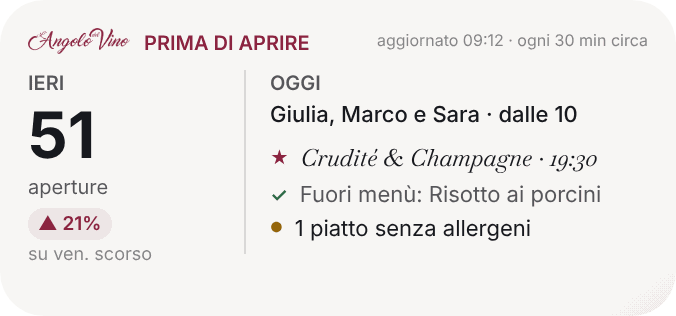
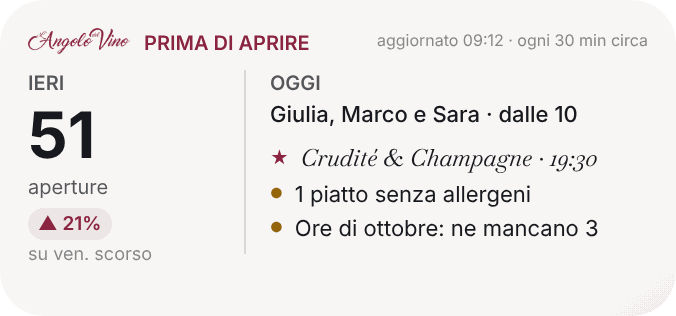
Versione 0.34.0: widget «Menù e QR», QR centrato nel Pannello, «Da fare» con orari e ore dei dipendenti
- Nuovo widget medio «Menù e QR» (per tutti): a sinistra si tocca e si apre il menù,
  a destra il QR si tocca e si apre grande.
- Pannello: «Menù» con testo e tondo con la freccia allineati; «QR del menù» con la
  scritta su una riga e il codice grande al centro.
- «Da fare»: dal giovedì gli orari della settimana prossima da preparare; dal primo del
  mese i dipendenti che devono mandare le ore; le ore da approvare. Il numero conta le
  cose da fare. «Prima di aprire» le mostra prima del fuori menù, con testi corti.
- Corretto il nome doppio di una funzione che rompeva il widget medio «Aperture».

Claude-Session: https://claude.ai/code/session_01EJxiVCETf75PpRm3fVmtdi

Changed region(s): [[0.4349, 0.6835, 0.9009, 0.769], [0.4038, 0.5696, 0.9009, 0.6551]]

diff --git a/src/lib/widget-data.ts b/src/lib/widget-data.ts
@@ -8,7 +8,7 @@ import { businessDayKey, formatPrice, inPeriod, periodStatus } from "@/lib/menu-
 import { openStatus, romeNow } from "@/lib/menu-venue";
 import { blockHours, periodOf } from "@/lib/schedule";
 import { employeeVisibleDates } from "@/lib/week-visibility";
-import { parseDateKey } from "@/lib/week";
+import { endOfMonth, lastCompletedMonth, parseDateKey } from "@/lib/week";
 import { MENU_QR_URL } from "@/lib/widgets";
 
 const DAYS = ["Lunedì", "Martedì", "Mercoledì", "Giovedì", "Venerdì", "Sabato", "Domenica"];
@@ -238,23 +238,40 @@ async function allergensToDo(day: string) {
 }
 
 // ---------- Da fare
+// Le cose in sospeso, ognuna quando serve davvero:
+// - piatti senza allergeni (sempre);
+// - dal giovedì, gli orari della settimana prossima ancora da scrivere; scritti ma non confermati, da confermare;
+// - dal primo del mese, i dipendenti che non hanno ancora mandato le ore del mese finito;
+// - le ore mandate che aspettano l'approvazione.
 export async function dataDaFare() {
   const day = businessDayKey(new Date());
   const today = romeParts().day;
   const nextMon = addDays(monday(today), 7);
-  const [allergeni, esauriti, nextBlocks, nextPlan, mesi] = await Promise.all([
+  const mese = lastCompletedMonth(parseDateKey(today));
+  const fineMese = endOfMonth(new Date(Date.UTC(mese.year, mese.month - 1, 1)));
+  const [allergeni, esauriti, nextBlocks, nextPlan, inAttesa, dipendenti, inviati] = await Promise.all([
     allergensToDo(day),
     prisma.menuItem.count({ where: { deletedAt: null, soldOutDay: day } }),
     prisma.shiftBlock.count({ where: { date: { gte: parseDateKey(nextMon), lte: parseDateKey(addDays(nextMon, 6)) } } }),
     prisma.weekPlan.findUnique({ where: { weekStart: parseDateKey(nextMon) }, select: { publishedAt: true } }),
-    prisma.monthlySubmission.count({ where: { status: "SUBMITTED" } }),
+    prisma.monthlySubmission.findMany({ where: { status: "SUBMITTED" }, select: { employeeId: true } }),
+    // Come l'avviso in «Dipendenti»: chi ha l'accesso, è attivo ed era già assunto in quel mese.
+    prisma.employee.findMany({ where: { role: "EMPLOYEE", active: true, username: { not: null }, createdAt: { lte: fineMese } }, select: { id: true } }),
+    prisma.monthlySubmission.findMany({ where: { year: mese.year, month: mese.month, status: { in: ["SUBMITTED", "APPROVED"] } }, select: { employeeId: true } }),
   ]);
+  const daPreparare = weekday(today) >= 3 && nextBlocks === 0 ? 1 : 0;
   const daConfermare = nextBlocks > 0 && !nextPlan?.publishedAt ? 1 : 0;
+  const mandate = new Set(inviati.map((x) => x.employeeId));
+  const oreMancanti = dipendenti.filter((e) => !mandate.has(e.id)).length;
+  const daApprovare = new Set(inAttesa.map((x) => x.employeeId)).size;
+  const nomeMese = MONTHS[mese.month - 1];
   const righe = [
-    { n: allergeni, testo: allergeni === 1 ? "allergeni da compilare" : "allergeni da compilare", breve: "allergeni", livello: allergeni > 0 ? "rosso" : "verde", link: "/gestione-menu" },
+    { n: allergeni, testo: "allergeni da compilare", breve: "allergeni", livello: allergeni > 0 ? "rosso" : "verde", link: "/gestione-menu" },
+    { n: daPreparare, testo: "orari della settimana prossima da fare", breve: "da preparare", livello: daPreparare > 0 ? "ambra" : "verde", link: `/orari?date=${nextMon}` },
     { n: daConfermare, testo: "settimana da confermare", breve: "da confermare", livello: daConfermare > 0 ? "ambra" : "verde", link: `/orari?date=${nextMon}` },
+    { n: daApprovare, testo: "ore da approvare", breve: "da approvare", livello: daApprovare > 0 ? "ambra" : "verde", link: "/dipendenti" },
+    { n: oreMancanti, testo: `ore di ${nomeMese} da mandare`, breve: "ore da mandare", livello: oreMancanti > 0 ? "ambra" : "verde", link: "/dipendenti", mese: nomeMese },
     { n: esauriti, testo: esauriti === 1 ? "esaurito oggi" : "esauriti oggi", breve: "esauriti", livello: esauriti > 0 ? "ambra" : "verde", link: "/gestione-menu" },
-    { n: mesi, testo: mesi === 1 ? "mese da approvare" : "mesi da approvare", breve: "da approvare", livello: mesi > 0 ? "ambra" : "verde", link: "/dipendenti" },
   ];
   return { aggiornato: clockNow(), tuttoAPosto: righe.every((r) => r.n === 0), righe, link: "/gestione-menu" };
 }
@@ -495,27 +512,24 @@ export async function dataMattina() {
   const { day: today } = romeParts();
   const yesterday = addDays(today, -1);
   const business = businessDayKey(new Date());
-  const nextMon = addDays(monday(today), 7);
-  const [per, hours, pick, daily, allergeni, staff, ev, nextBlocks, nextPlan] = await Promise.all([
+    const [per, hours, pick, daily, staff, ev, todo] = await Promise.all([
     opensPerDay(addDays(today, -8)),
     prisma.menuEvent.groupBy({ by: ["hour"], where: { kind: "open", day: yesterday }, _count: { _all: true } }),
     prisma.menuEvent.groupBy({ by: ["label"], where: { kind: "pick", label: { not: null }, day: yesterday }, _count: { _all: true }, orderBy: { _count: { label: "desc" } }, take: 1 }),
     dailyLines(business),
-    allergensToDo(business),
     staffNow(),
     nextEvent(business),
-    prisma.shiftBlock.count({ where: { date: { gte: parseDateKey(nextMon), lte: parseDateKey(addDays(nextMon, 6)) } } }),
-    prisma.weekPlan.findUnique({ where: { weekStart: parseDateKey(nextMon) }, select: { publishedAt: true } }),
+    dataDaFare(),
   ]);
   const count = (d: string) => per.get(d) ?? 0;
   const peak = hours.reduce<{ hour: number; n: number } | null>((best, h) => (!best || h._count._all > best.n ? { hour: h.hour, n: h._count._all } : best), null);
   const fuori = daily.piatti.length + daily.vini.length;
   const persone = [...staff.adesso, ...staff.dopo];
   const cose = [
-    // Il fuori menù è facoltativo: se c'è lo si ricorda, se manca non è una cosa da fare.
+    // Prima le cose in sospeso del «Da fare» (allergeni, orari, ore dei dipendenti), che contano di più.
+    ...todo.righe.filter((r) => r.n > 0 && r.breve !== "esauriti").map((r) => ({ testo: todoShort(r), fatto: false, link: r.link })),
+    // Il fuori menù è facoltativo: se c'è lo si ricorda (spuntato), se manca non è una cosa da fare.
     fuori > 0 ? { testo: `Fuori menù: ${[...daily.piatti, ...daily.vini].map((x) => x.nome).slice(0, 2).join(", ")}`, fatto: true, link: "/gestione-menu" } : null,
-    allergeni > 0 ? { testo: `${allergeni} ${allergeni === 1 ? "piatto" : "piatti"} senza allergeni`, fatto: false, link: "/gestione-menu" } : null,
-    nextBlocks > 0 && !nextPlan?.publishedAt ? { testo: "Settimana prossima da confermare", fatto: false, link: `/orari?date=${nextMon}` } : null,
   ].filter(Boolean);
   return {
     aggiornato: clockNow(),
@@ -713,12 +727,23 @@ export async function dataClienti() {
   };
 }
 
-// La prima cosa da fare, detta per intero sotto il numero.
-const TODO_TEXT: Record<string, (n: number) => string> = {
+// Le cose da fare dette per intero (Pannello, sotto il numero; «Prima di aprire», nell'elenco).
+const TODO_TEXT: Record<string, (n: number, mese?: string) => string> = {
   allergeni: (n) => `${n} ${n === 1 ? "piatto" : "piatti"} senza allergeni`,
-  "da confermare": () => "orari da confermare",
-  "da approvare": (n) => `${n} ${n === 1 ? "mese" : "mesi"} da approvare`,
+  "da preparare": () => "Orari della settimana prossima da preparare",
+  "da confermare": () => "Orari della settimana prossima da confermare",
+  "da approvare": (n) => `${n} ${n === 1 ? "dipendente" : "dipendenti"}: ore da approvare`,
+  "ore da mandare": (n, mese) => `${n} ${n === 1 ? "dipendente deve" : "dipendenti devono"} mandarti le ore di ${mese ?? "questo mese"}`,
 };
+const todoText = (r: { n: number; breve: string; mese?: string }) => TODO_TEXT[r.breve]?.(r.n, r.mese) ?? `${r.n} ${r.breve}`;
+// Più corte, per l'elenco di «Prima di aprire» (una riga sola accanto al pallino).
+const TODO_SHORT: Record<string, (n: number, mese?: string) => string> = {
+  "da preparare": () => "Orari settimana prossima da fare",
+  "da confermare": () => "Orari settimana prossima da confermare",
+  "da approvare": (n) => `Ore da approvare: ${n}`,
+  "ore da mandare": (n, mese) => `Ore di ${mese ?? "questo mese"}: ne mancano ${n}`,
+};
+const todoShort = (r: { n: number; breve: string; mese?: string }) => TODO_SHORT[r.breve]?.(r.n, r.mese) ?? todoText(r);
 
 // ---------- Pannello: sei scorciatoie, ognuna con il suo dato
 export async function dataPannello(owner: { kind: "admin" } | { kind: "employee"; employeeId: string }) {
@@ -753,8 +778,9 @@ export async function dataPannello(owner: { kind: "admin" } | { kind: "employee"
       orario: staff.stasera.length ? `${staff.stasera[0].dalle}–${[...staff.stasera].sort((a, b) => b.fine - a.fine)[0].alle}` : null,
     },
     fuori: [...daily.piatti, ...daily.vini].map((x) => x.nome).slice(0, 2),
-    daFare: daFare.reduce((s, r) => s + r.n, 0),
-    daFarePrimo: daFare[0] ? { testo: TODO_TEXT[daFare[0].breve]?.(daFare[0].n) ?? `${daFare[0].n} ${daFare[0].breve}`, link: daFare[0].link } : null,
+    // Quante cose ci sono da fare (non la somma: piatti e dipendenti non si sommano); sotto, la prima.
+    daFare: daFare.length,
+    daFarePrimo: daFare[0] ? { testo: todoText(daFare[0]), link: daFare[0].link } : null,
     link: "/menu",
     linkStatistiche: `/statistiche?dal=${today}&al=${today}`,
     linkTurni: `/orari?date=${today}`,

diff --git a/public/widget/angolo.js b/public/widget/angolo.js
@@ -406,6 +406,7 @@ const FORMATI = {
   turni: ["small", "medium", "accessoryRectangular", "accessoryCircular", "accessoryInline"],
   pannello: ["large"],
   apri: ["small"],
+  menuqr: ["medium"],
   sala: ["medium"],
   mattina: ["medium"],
   stasera: ["medium"],
@@ -437,6 +438,7 @@ function disegna(nome, fam, risposta) {
     : nome === "qr" ? wQr(fam, d)
     : nome === "pannello" ? wPannello(fam, d, v)
     : nome === "apri" ? wApri(fam, d)
+    : nome === "menuqr" ? wMenuQr(fam, d)
     : nome === "sala" ? wSala(fam, d, v)
     : nome === "mattina" ? wMattina(fam, d, v)
     : nome === "stasera" ? wStasera(fam, d, v)
@@ -823,6 +825,8 @@ function wDaFare(fam, d, v) {
     return w;
   }
   const colori = { rosso: C.rosso, ambra: C.ambra, verde: C.verde };
+  // Ci stanno quattro voci: prima quelle con qualcosa da fare.
+  const lista = [...d.righe.filter((x) => x.n > 0), ...d.righe.filter((x) => !x.n)].slice(0, 4);
   const voce = (stack, x, larghezza) => {
     const r = riga(stack);
     if (larghezza) r.size = new Size(larghezza, 0);
@@ -838,18 +842,18 @@ function wDaFare(fam, d, v) {
     r.addSpacer();
   };
   if (fam === "small") {
-    d.righe.forEach((x, i) => {
+    lista.forEach((x, i) => {
       voce(w, x);
-      if (i < d.righe.length - 1) w.addSpacer();
+      if (i < lista.length - 1) w.addSpacer();
     });
     return w;
   }
   const lw = Math.floor((CW - 12) / 2);
   for (let i = 0; i < 4; i += 2) {
     const r = riga(w);
-    voce(r, d.righe[i], lw);
+    voce(r, lista[i], lw);
     r.addSpacer(12);
-    voce(r, d.righe[i + 1], lw);
+    voce(r, lista[i + 1], lw);
     if (i === 0) w.addSpacer();
   }
   w.addSpacer();
@@ -1191,6 +1195,54 @@ function graficoGiornata(oggi, ieri, w, h) {
   return grafico(oggi, w, h, { confronto: ieri, punti: ieri.length, spessore: 2, punto: 3 });
 }
 
+// ---------- Menù e QR (medio): a sinistra si tocca e si apre il menù, a destra il QR si tocca
+// e si apre grande, da far inquadrare al cliente. Per chi è in sala.
+function wMenuQr(fam) {
+  const w = nuovoWidget(fam);
+  const { CW, CH } = misure(fam);
+  w.url = link("/menu");
+  const gap = 8;
+  const tw = Math.floor((CW - gap) / 2);
+  const r = riga(w);
+  r.topAlignContent();
+  // Sinistra: il menù
+  const sx = tessera(r, tw, CH, "/menu");
+  if (LOGO) logo(riga(sx), 14);
+  else testo(sx, "L'ANGOLO DEL VINO", F.titoletto(), C.oro);
+  sx.addSpacer();
+  testo(sx, "Il menù", F.serifForte(24), C.crema);
+  testo(sx, "tocca e mostralo", F.serifCorsivo(12), C.crema2);
+  sx.addSpacer(8);
+  const pr = riga(sx);
+  const pill = pr.addStack();
+  pill.setPadding(5, 12, 5, 12);
+  pill.cornerRadius = 12;
+  pill.backgroundColor = C.oro;
+  testo(pill, "Apri  →", F.forte(12), C.fondo1);
+  pr.addSpacer();
+  r.addSpacer(gap);
+  // Destra: il QR, grande quanto il riquadro permette
+  const dx = tessera(r, tw, CH, "/menu/qr");
+  const lato = Math.min(CH - 20 - 16, tw - 24);
+  dx.addSpacer();
+  const qr = riga(dx);
+  qr.addSpacer();
+  const box = qr.addStack();
+  box.backgroundColor = C.qr;
+  box.cornerRadius = 10;
+  box.setPadding(4, 4, 4, 4);
+  const img = box.addImage(QR);
+  img.imageSize = new Size(lato - 8, lato - 8);
+  qr.addSpacer();
+  dx.addSpacer(4);
+  const t = riga(dx);
+  t.addSpacer();
+  testo(t, "tocca: si apre grande", F.testo(9), C.crema2).minimumScaleFactor = 0.8;
+  t.addSpacer();
+  dx.addSpacer();
+  return w;
+}
+
 // ---------- Apri il menù (piccolo): un tocco e il menù è sullo schermo
 function wApri(fam, d) {
   const w = nuovoWidget(fam);
@@ -1228,32 +1280,58 @@ function wPannello(fam, d, v) {
   };
   const dipendente = d.ruolo === "dipendente";
 
-  // 1 · Menù (per tutti): da mostrare al cliente
+  // 1 · Menù: titolo in alto; in basso il testo a sinistra e il tondo con la freccia a destra.
+  const lato = Math.max(36, Math.min(48, th - 42));
+  const coppia = (tile, titolo, grande, piccolo) => {
+    testo(tile, titolo, F.titoletto(), C.oro);
+    tile.addSpacer();
+    const r = riga(tile);
+    r.centerAlignContent();
+    const c = colonna(r);
+    testo(c, grande, F.serifForte(18), C.crema).minimumScaleFactor = 0.8;
+    testo(c, piccolo, F.serifCorsivo(12), C.crema2);
+    r.addSpacer(6);
+    r.addSpacer();
+    return r;
+  };
   const r1 = fila();
   const menu = tessera(r1, tw, th, "/menu");
-  testo(menu, "MENÙ", F.titoletto(), C.oro);
-  menu.addSpacer();
-  testo(menu, "Apri il menù", F.serifForte(17), C.crema);
-  menu.addSpacer(2);
-  freccina(menu, "da mostrare  →");
+  const mr = coppia(menu, "MENÙ", "Il menù", "da mostrare");
+  // Il tondo un po' più piccolo del QR: pieno di colore, a parità di misura sembrerebbe più grosso.
+  const dTondo = lato - 8;
+  // Dentro uno spazio grande quanto il QR: così le due righe (menù e QR) restano alla stessa altezza.
+  const posto = mr.addStack();
+  posto.size = new Size(lato, lato);
+  posto.centerAlignContent();
+  posto.addSpacer();
+  const tondo = posto.addStack();
+  tondo.size = new Size(dTondo, dTondo);
+  tondo.cornerRadius = dTondo / 2;
+  tondo.backgroundColor = C.oro;
+  tondo.centerAlignContent();
+  tondo.addSpacer();
+  testo(tondo, "→", F.forte(Math.round(dTondo * 0.42)), C.fondo1);
+  tondo.addSpacer();
+  posto.addSpacer();
   r1.addSpacer(gap);
-  // 2 · QR da mostrare
+  // QR: una riga sola in alto, centrata, e sotto il codice più grande possibile, al centro.
   const qr = tessera(r1, tw, th, "/menu/qr");
+  const qt = riga(qr);
+  qt.addSpacer();
+  testo(qt, "QR DEL MENÙ", F.titoletto(), C.oro);
+  qt.addSpacer();
+  qr.addSpacer();
   const qrr = riga(qr);
-  qrr.centerAlignContent();
-  const qc = colonna(qrr);
-  testo(qc, "QR", F.titoletto(), C.oro);
-  qc.addSpacer();
-  testo(qc, "Mostra", F.serifForte(17), C.crema);
-  testo(qc, "il codice", F.serifCorsivo(12), C.crema2);
   qrr.addSpacer();
+  const latoQr = th - 20 - 14;
   const box = qrr.addStack();
   box.backgroundColor = C.qr;
   box.cornerRadius = 8;
   box.setPadding(4, 4, 4, 4);
-  const lato = Math.min(th - 28, 58);
   const img = box.addImage(QR);
-  img.imageSize = new Size(lato, lato);
+  img.imageSize = new Size(latoQr - 8, latoQr - 8);
+  qrr.addSpacer();
+  qr.addSpacer();
   w.addSpacer(gap);
 
   const r2 = fila();
@@ -1363,8 +1441,10 @@ function wPannello(fam, d, v) {
     testo(df, "DA FARE", F.titoletto(), C.oro);
     df.addSpacer();
     if (d.daFare) {
-      testo(df, d.daFare, F.numero(30), C.ambra);
-      testo(df, d.daFarePrimo.testo, F.testo(10), C.crema2);
+      // Le cose lunghe («3 dipendenti devono mandarti le ore di ottobre») vanno su due righe: numero più piccolo.
+      const lungo = d.daFarePrimo.testo.length > 24;
+      testo(df, d.daFare, F.numero(lungo ? 24 : 30), C.ambra);
+      testo(df, d.daFarePrimo.testo, F.testo(lungo ? 9.5 : 10), C.crema2, lungo ? 2 : 1);
     } else {
       testo(df, "Tutto a posto", F.serifForte(17), C.verde);
       testo(df, "niente in sospeso", F.testo(10), C.crema2);
@@ -1471,7 +1551,7 @@ function wMattina(fam, d, v) {
     r.url = link(c.link);
     testo(r, c.fatto ? "✓" : "●", F.forte(c.fatto ? 10 : 7), c.fatto ? C.verde : C.ambra);
     r.addSpacer(6);
-    testo(r, c.testo, F.testo(11), c.fatto ? C.crema2 : C.crema);
+    testo(r, c.testo, F.testo(11), c.fatto ? C.crema2 : C.crema).minimumScaleFactor = 0.8;
     r.addSpacer();
     dx.addSpacer(4);
   }
@@ -1599,7 +1679,7 @@ function wAndamento(fam, d, v) {
       centro(x.n, F.forte(9), x.inCorso ? C.crema : C.crema2);
       c.addSpacer(2);
       const h = Math.max(3, Math.round((x.n / max) * hMax));
-      const img = c.addImage(barra(bw, h, x.inCorso ? C.oro : C.oroArea));
+      const img = c.addImage(barraSettimana(bw, h, x.inCorso ? C.oro : C.oroArea));
       img.imageSize = new Size(bw, h);
       c.addSpacer(3);
       centro(x.inCorso ? "questa" : x.da, F.testo(8), x.inCorso ? C.oro : C.crema3);
@@ -1680,7 +1760,7 @@ function wAndamento(fam, d, v) {
 }
 
 // Una barra sola, con gli angoli in alto arrotondati.
-function barra(w, h, colore) {
+function barraSettimana(w, h, colore) {
   const ctx = new DrawContext();
   ctx.size = new Size(w, h);
   ctx.opaque = false;
@@ -1744,7 +1824,7 @@ let famiglia = config.widgetFamily;
 if (!config.runsInWidget) famiglia = await scegliAnteprima();
 
 // QR scuro su chiaro, sempre: è quello che le fotocamere leggono meglio.
-const QR = param === "qr" || param === "pannello" ? await caricaImmagine("qr.png") : null;
+const QR = param === "qr" || param === "pannello" || param === "menuqr" ? await caricaImmagine("qr.png") : null;
 const risposta = await caricaDati(param);
 // La locandina dell'evento (widget «stasera»): se non arriva, al suo posto la data.
 let LOCANDINA = null;

diff --git a/src/lib/widgets.ts b/src/lib/widgets.ts
@@ -30,6 +30,7 @@ export const WIDGETS: WidgetDef[] = [
   { id: "clienti", nome: "Da dire ai clienti", descrizione: "Per chi è in sala: il fuori menù con i prezzi, i consigli della casa, gli esauriti e l'evento di stasera.", per: "tutti", sizes: ["medium"], icona: { colore: "deep-green", disegno: "comments" } },
   { id: "andamento", nome: "Andamento", descrizione: "Per il consulente: la settimana e il mese in corso contro gli stessi giorni di prima, settimana per settimana, i mesi interi, quanto rendono gli eventi, il momento più forte, le ore in turno.", per: "admin", sizes: ["large"], icona: { colore: "deep-blue", disegno: "chart-bar" } },
   { id: "apri", nome: "Apri il menù", descrizione: "Un tocco e il menù dei clienti è sullo schermo, da mostrare.", per: "tutti", sizes: ["small"], icona: { colore: "deep-brown", disegno: "wine-glass" } },
+  { id: "menuqr", nome: "Menù e QR", descrizione: "Per chi è in sala: a sinistra si tocca e si apre il menù, a destra il QR si tocca e si apre grande, da far inquadrare al cliente.", per: "tutti", sizes: ["medium"], icona: { colore: "deep-brown", disegno: "qrcode" } },
   { id: "qr", nome: "QR del menù", descrizione: "Il codice dei tavoli, grande, da far inquadrare a chi non lo trova.", per: "tutti", sizes: ["small", "large"], icona: { colore: "deep-gray", disegno: "qrcode" } },
   { id: "aperture", nome: "Aperture di oggi", descrizione: "Quante volte è stato aperto il menù oggi, anche sulla schermata di blocco, sotto l'orologio.", per: "admin", sizes: ["small", "accessoryRectangular", "accessoryCircular", "accessoryInline"], icona: { colore: "deep-red", disegno: "eye" } },
   { id: "turni", nome: "I miei turni", descrizione: "Il prossimo turno e la settimana, solo con gli orari già confermati; anche sulla schermata di blocco.", per: "dipendente", sizes: ["small", "medium", "accessoryRectangular", "accessoryCircular", "accessoryInline"], icona: { colore: "teal", disegno: "calendar-alt" } },

diff --git a/src/app/api/widget/[nome]/route.ts b/src/app/api/widget/[nome]/route.ts
@@ -50,7 +50,7 @@ export async function GET(req: Request, { params }: { params: Promise<{ nome: st
     : nome === "dafare" ? await dataDaFare()
     : nome === "menu" ? await dataMenu()
     : nome === "fuorimenu" ? await dataFuoriMenu()
-    : nome === "qr" || nome === "apri" ? dataQr()
+    : nome === "qr" || nome === "apri" || nome === "menuqr" ? dataQr()
     : nome === "pannello" ? await dataPannello(auth.owner.kind === "employee" ? { kind: "employee", employeeId: auth.owner.employeeId } : { kind: "admin" })
     : nome === "sala" ? await dataSala()
     : nome === "mattina" ? await dataMattina()
